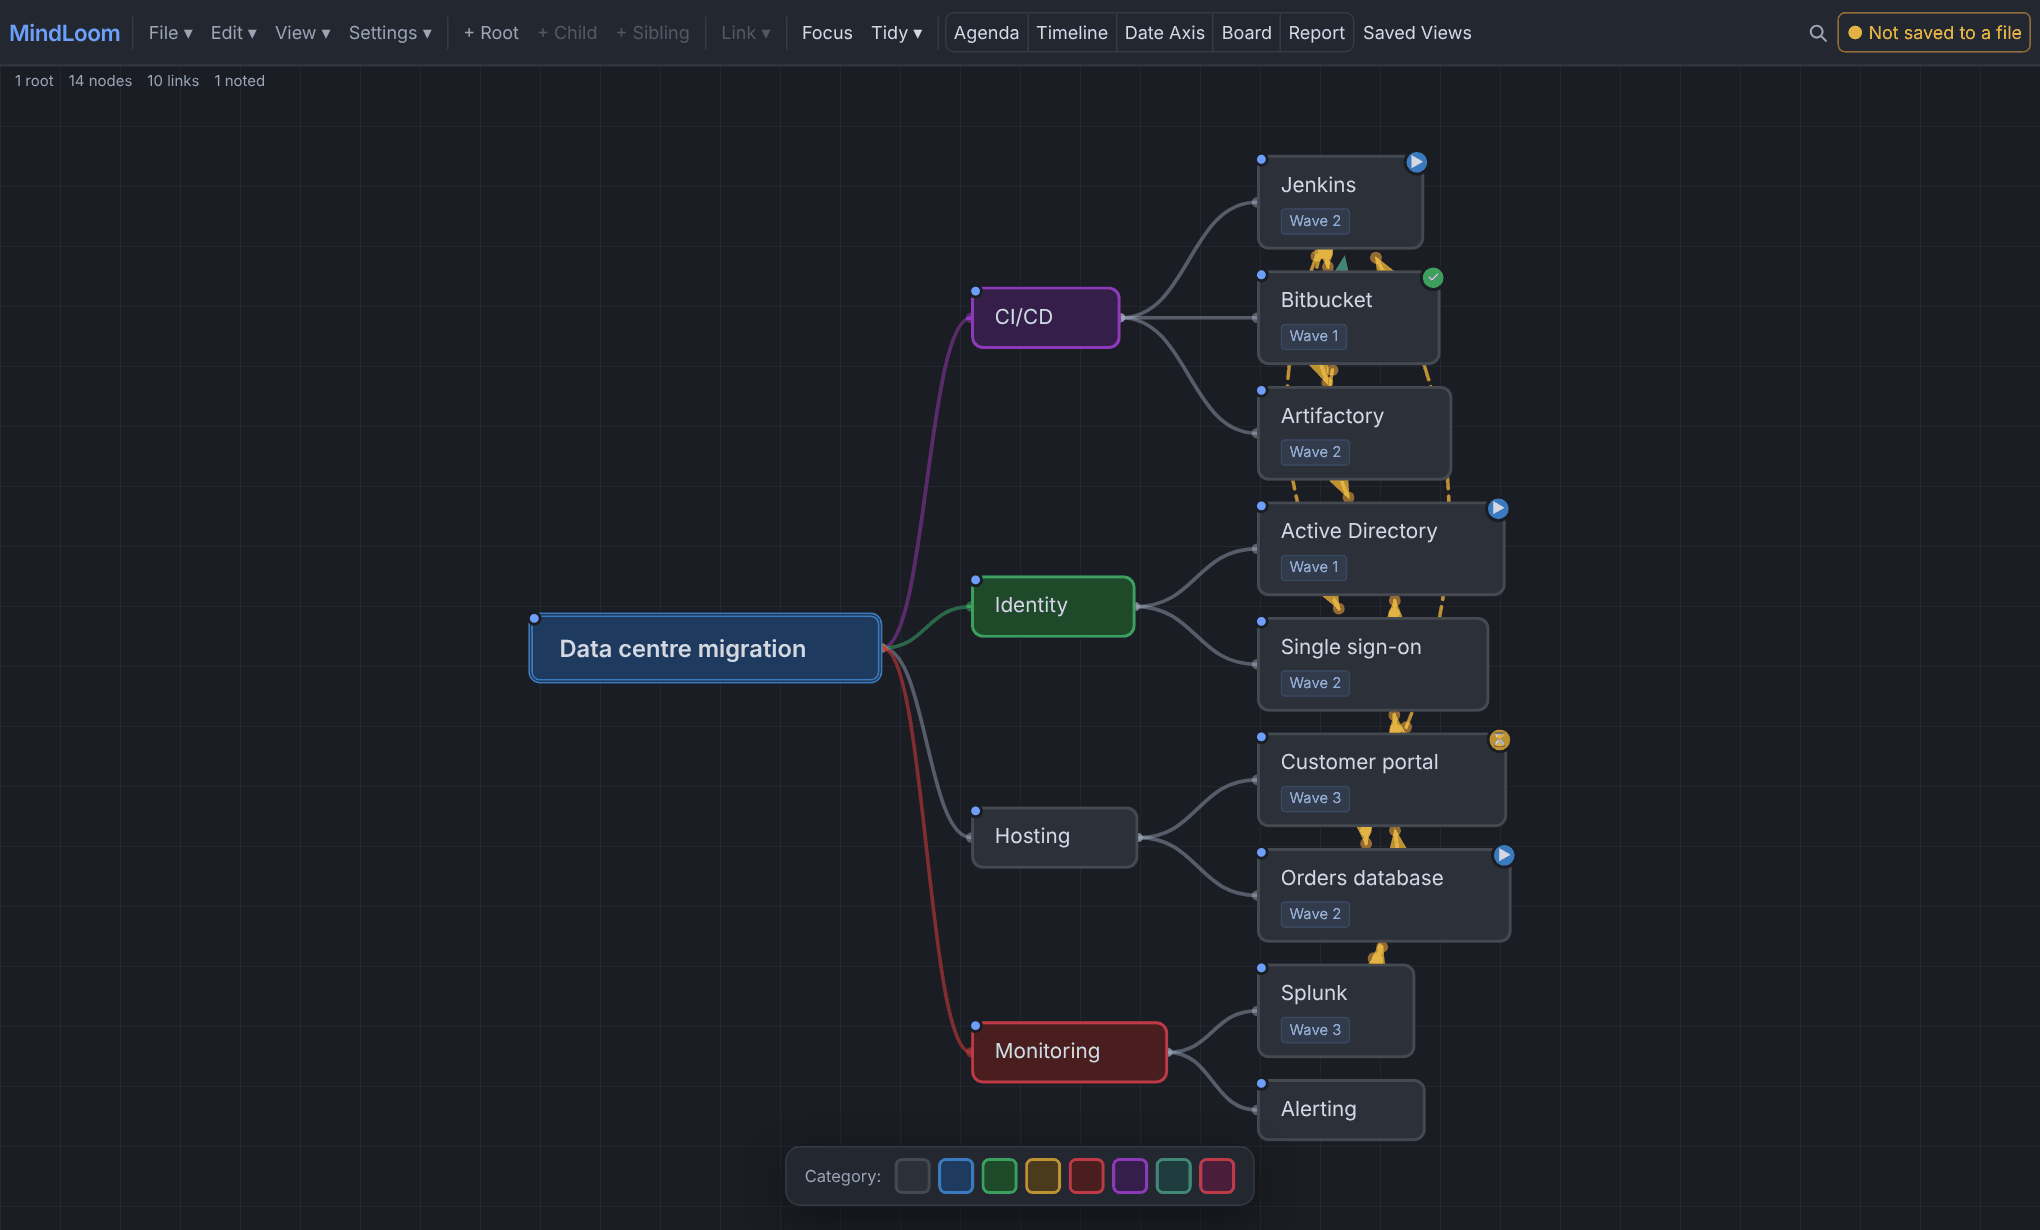
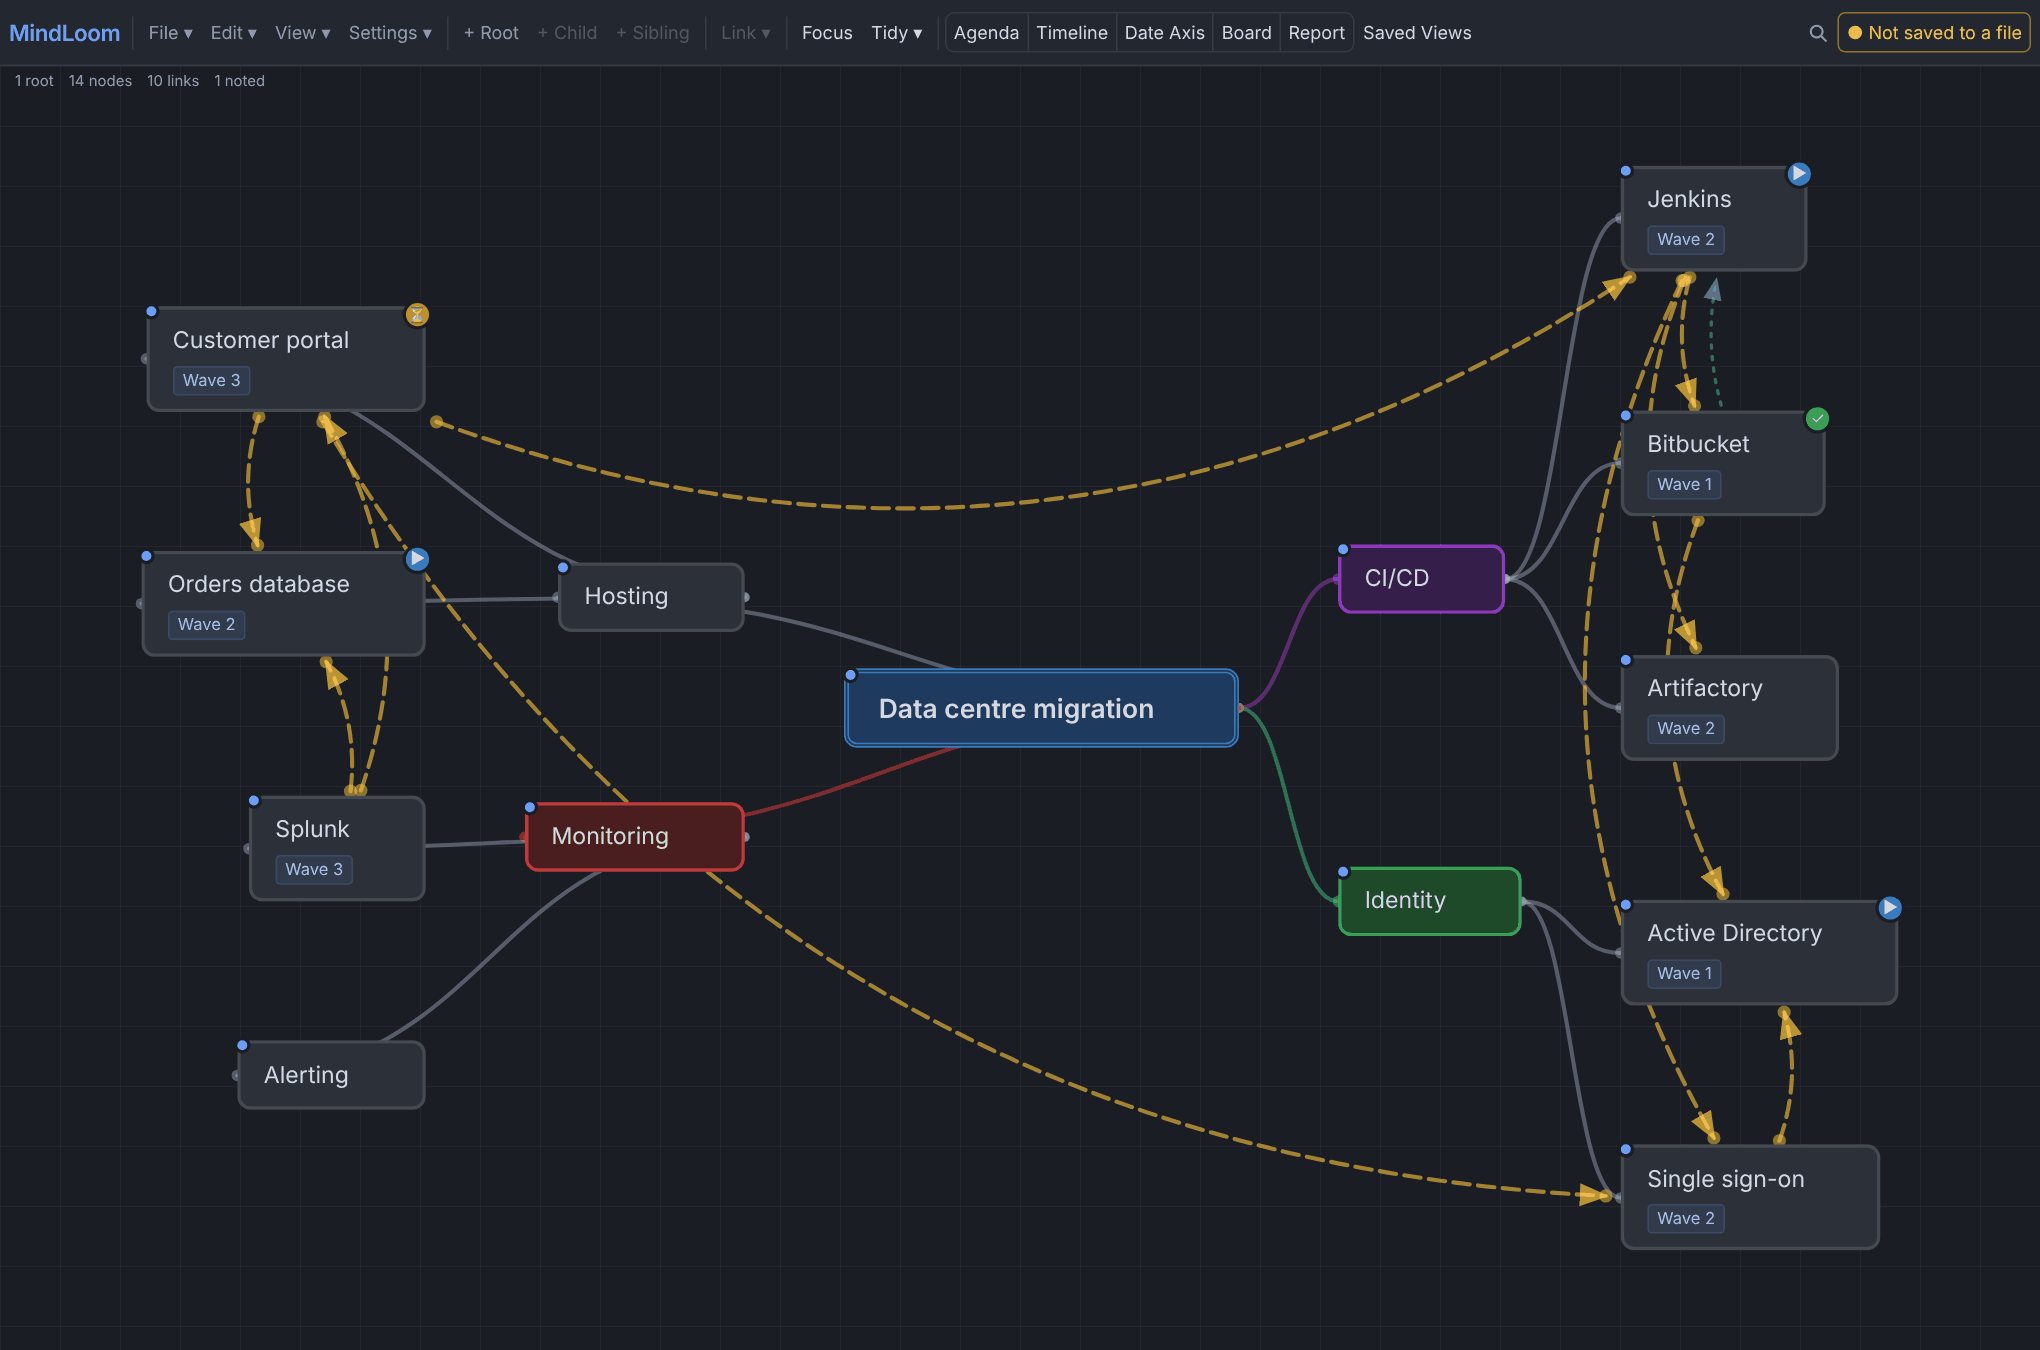
User guide: clearer mapping images, Outline layout, Date Axis settings, Property List, search sub-links fix
Claude-Session: https://claude.ai/code/session_01F1jASLsfizm7CQ9EwC3Gd3

diff --git a/docs/index.html b/docs/index.html
@@ -296,6 +296,7 @@ footer{color:var(--muted);font-size:13px;border-top:1px solid var(--border);padd
     <tr><td><b>Property List</b></td><td>A quiet list that shows input boxes only when you hover or edit, which keeps a busy panel tidy.</td></tr>
   </table>
   <figure class="small"><img src="img/details-sections.png" alt="The Sections details layout" loading="lazy"><figcaption>The Sections layout.</figcaption></figure>
+  <figure class="small"><img src="img/details-props.png" alt="The Property List details layout" loading="lazy"><figcaption>The Property List layout: values read as plain text until you hover or click to edit them.</figcaption></figure>
   <h3>Bookmarks</h3>
   <p>Right-click a node and choose <b>Bookmark</b>, then press <kbd>B</kbd> to jump straight to any bookmarked node, which is useful in very large maps.</p>
 </section>
@@ -318,10 +319,12 @@ footer{color:var(--muted);font-size:13px;border-top:1px solid var(--border);padd
   <ul>
     <li><b>Horizontal tree</b>: left to right, siblings ordered by due date.</li>
     <li><b>Vertical tree</b>: top to bottom.</li>
-    <li><b>Balanced tree</b>: the root in the middle and branches split left and right. Best for large maps.</li>
+    <li><b>Balanced tree</b>: the root in the middle and branches split left and right. Best for large maps, and a good choice when cross-links or dependencies matter, because the linked nodes end up on both sides and the lines between them stay visible.</li>
+    <li><b>Outline (indented list)</b>: every node in one column, each level indented under its parent, like a table of contents. Useful for reading a plan top to bottom or for pasting into a document. It applies to the whole map.</li>
   </ul>
+  <p>The <b>Tidy</b> menu has two groups, <b>Whole map</b> and <b>Selected branch</b>. Choose the second to arrange only the branch you have selected and leave the rest where it is. Tidy is one undo step.</p>
   <figure><img src="img/balanced.png" alt="A balanced tree layout" loading="lazy"><figcaption>Balanced tree: branches fan out on both sides of the root.</figcaption></figure>
-  <p><b>Snap to grid</b> and lane bands (Settings) keep manual layouts neat. <b>Fit All</b> (<kbd>F</kbd>) and <b>Centre</b> (<kbd>Home</kbd>) help you find your way back.</p>
+  <p><b>Snap to grid</b> (Settings) keeps manual layouts neat. <b>Lane Bands</b> do the same job on the Date Axis. <b>Fit All</b> (<kbd>F</kbd>) and <b>Centre</b> (<kbd>Home</kbd>) help you find your way back.</p>
   <h3>Presentation mode</h3>
   <p>Press <kbd>P</kbd> to walk through your map one node at a time with the arrow keys, with <kbd>Esc</kbd> to leave. It is handy for talking a team through a plan.</p>
 </section>
@@ -412,8 +415,9 @@ footer{color:var(--muted);font-size:13px;border-top:1px solid var(--border);padd
 <section class="sec" id="mapping">
   <h2>Application Mapping Structures <span class="pill opt">Optional</span></h2>
   <p>Use this to show how systems depend on each other, for example during a migration, so that nothing breaks or gets forgotten. It is <b>off by default</b>, so people who just want a mind map never see it.</p>
-  <figure><img src="img/map-off.png" alt="A map with the feature off" loading="lazy"><figcaption>Off (the default): the map looks like any other MindLoom map.</figcaption></figure>
-  <figure><img src="img/map-on.png" alt="The same map with the feature on" loading="lazy"><figcaption>On: the same map now shows link types in colour and migration waves on each application.</figcaption></figure>
+  <figure><img src="img/map-off.png" alt="A map with the feature off" loading="lazy"><figcaption>Off (the default): the map looks like any other MindLoom map. Here it has been arranged with Tidy &rarr; Balanced tree.</figcaption></figure>
+  <figure><img src="img/map-on.png" alt="The same map with the feature on" loading="lazy"><figcaption>On: the same map now shows each link as a coloured arrow with its type, and a migration wave on each application.</figcaption></figure>
+  <div class="callout tip"><b class="t">Tip: lay the map out so the links show</b>Links are drawn straight between the two nodes, so nodes stacked in one tight column can hide them. Use <b>Tidy &rarr; Balanced tree</b> to spread the map to both sides of the root, then drag any linked nodes a little further apart. The screenshots in this section are laid out that way.</div>
   <h3>Turning it on</h3>
   <p>Open <b>Settings &rarr; Application Mapping Structures</b> and switch it to On. The setting is saved in the file, so it belongs to that map. Turning it off again hides the extra features but keeps the information in the file.</p>
   <figure class="small"><img src="img/map-settings.png" alt="Settings menu with the feature switched on" loading="lazy"><figcaption>The switch is in the Settings menu, under Editing.</figcaption></figure>
@@ -444,7 +448,7 @@ footer{color:var(--muted);font-size:13px;border-top:1px solid var(--border);padd
     <li><b>This relies on</b>: everything this application needs in order to work.</li>
     <li><b>Both</b>: the whole picture.</li>
   </ul>
-  <figure><img src="img/impact-up.png" alt="Impact view, relies on this" loading="lazy"><figcaption>The impact view follows your selection: click another node and it updates. Press <kbd>Esc</kbd> to clear it.</figcaption></figure>
+  <figure><img src="img/impact-up.png" alt="Impact view in both directions" loading="lazy"><figcaption>In this picture the impact view is set to <b>Both</b>. It follows your selection: click another node and it updates. Press <kbd>Esc</kbd> to clear it.</figcaption></figure>
   <h3>Dependency check</h3>
   <p>Once the feature is on, the <b>View</b> menu gains a Dependencies section with <b>Show impact of selected</b> and <b>Dependency check</b>. The check looks for things that are easy to forget.</p>
   <figure class="small"><img src="img/map-viewmenu.png" alt="View menu with the Dependencies section" loading="lazy"><figcaption>The Dependencies section appears in the View menu only while the feature is on.</figcaption></figure>
@@ -488,7 +492,7 @@ footer{color:var(--muted);font-size:13px;border-top:1px solid var(--border);padd
   <h3>Saving</h3>
   <ul>
     <li><b>Save</b> (<kbd>Ctrl</kbd>+<kbd>S</kbd>) and <b>Save As</b> write a file in MindLoom's own format. Use this for your real work.</li>
-    <li><b>Auto-save to file</b> keeps your chosen file up to date as you work (in browsers that support it). The toolbar shows the status.</li>
+    <li><b>Auto-save to file</b> keeps your chosen file up to date as you work (in browsers that support it). The toolbar shows the status. If several people use the same file in a synced folder, turn on <a href="#shared-map">Shared map</a> as well, so each save merges in the others' changes instead of overwriting them. <b>File &rarr; New Map</b> starts an empty map; your current one is backed up first.</li>
     <li>The save badge on the toolbar tells you when there are unsaved changes, and reminds you every ten minutes.</li>
   </ul>
   <h3>Export and import</h3>
@@ -565,8 +569,22 @@ footer{color:var(--muted);font-size:13px;border-top:1px solid var(--border);padd
     <tr><td>Snap to Grid</td><td>Keeps nodes aligned when you drag</td></tr>
     <tr><td>Hover Popups</td><td>Show a preview when you hover a node (off by default)</td></tr>
     <tr><td>Highlight Selection</td><td>Fade everything unrelated to the selected node</td></tr>
+    <tr><td>Your name</td><td>Added to the changes and comments you make, so a shared map shows who did what. Also used by <a href="#merge">Merge from file</a> and <a href="#shared-map">Shared map</a></td></tr>
     <tr><td>Hide Completed</td><td>Remove finished items from view</td></tr>
-    <tr><td>Baselines, Date Axis settings</td><td>Planning options (<a href="#dateaxis">details</a>)</td></tr>
+    <tr><td>Baselines</td><td>Save and compare planned dates (<a href="#dateaxis">details</a>)</td></tr>
+    <tr><td>Date Axis settings</td><td>A submenu of options for the Date Axis (table below)</td></tr>
+  </table>
+  <h3>Date Axis settings</h3>
+  <p>These sit in <b>Settings &rarr; Date Axis settings</b>. Most of them are also buttons on the Date Axis itself (<a href="#dateaxis">details</a>). They are saved with the map.</p>
+  <table>
+    <tr><th>Setting</th><th>What it does</th></tr>
+    <tr><td>Date Axis</td><td>Place nodes on a calendar at their dates, grouped in swimlanes. Switch off to put the map back as it was</td></tr>
+    <tr><td>Lane Bands</td><td>Show or hide the tinted swimlane bands and the pinned lane names</td></tr>
+    <tr><td>Undated Nodes</td><td>Show or hide nodes that have no date. Hidden by default; a button on the Date Axis shows how many are hidden</td></tr>
+    <tr><td>Lines</td><td>Cycle between no lines, only the selected node's lines, or every dependency line</td></tr>
+    <tr><td>Bar Colours</td><td>Colour bars by workstream, or by each node's own colour</td></tr>
+    <tr><td>Critical Path Only</td><td>Show only Critical Path items, their workstreams and the dependencies between them</td></tr>
+    <tr><td>Slide View</td><td>A clean layout with a legend for slides, with Critical Path items emphasised</td></tr>
   </table>
   <figure><img src="img/light.png" alt="Light theme" loading="lazy"><figcaption>The light theme, a good choice for printing and projectors.</figcaption></figure>
   <h3 id="simple-menus">Simple menus</h3>
@@ -575,10 +593,10 @@ footer{color:var(--muted);font-size:13px;border-top:1px solid var(--border);padd
   <table>
     <tr><th>Menu</th><th>Hidden while Simple Menus is on</th></tr>
     <tr><td>Toolbar</td><td>Focus and Saved Views</td></tr>
-    <tr><td>File</td><td>Export Presets</td></tr>
+    <tr><td>File</td><td>Export Presets, Merge from file and Shared map</td></tr>
     <tr><td>Edit</td><td>Shift dates</td></tr>
     <tr><td>View</td><td>Focus Roots, Minimap, Bookmarks and Saved Views</td></tr>
-    <tr><td>Settings</td><td>Advanced Activity &amp; Comments, Application Mapping Structures, Snap to Grid, Details Layout, Hover Popups, Highlight Selection, Baselines and the Date Axis settings</td></tr>
+    <tr><td>Settings</td><td>Advanced Activity &amp; Comments, Application Mapping Structures, Your name, Snap to Grid, Details Layout, Hover Popups, Highlight Selection, Baselines and the Date Axis settings</td></tr>
   </table>
   <ul>
     <li><b>Nothing is lost.</b> Maps keep all their data, and the Agenda, Timeline, Date Axis, Board and Report buttons stay where they are.</li>
@@ -799,8 +817,8 @@ frame-src 'none';  object-src 'none'</code></pre>
     var q=this.value.trim().toLowerCase(),shown=0;
     secs.forEach(function(s,i){
       var ok=!q||texts[i].indexOf(q)>-1;s.classList.toggle('hide',!ok);if(ok)shown++;
-      var a=$('#side a[href="#'+s.id+'"]');if(a)a.classList.toggle('hide',!ok);
     });
+    links.forEach(function(a){var t=document.getElementById(a.getAttribute('href').slice(1)),sc=t&&t.closest('section.sec');a.classList.toggle('hide',!!sc&&sc.classList.contains('hide'));}); // sub-links follow their section
     none.style.display=shown?'none':'block';
   });
   // scroll spy
